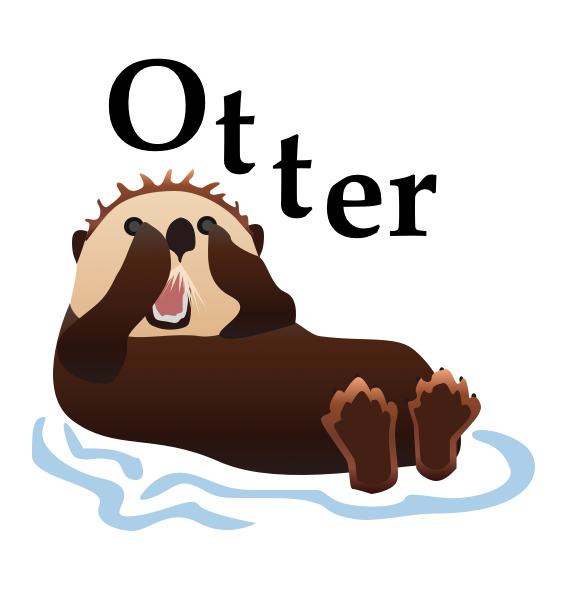
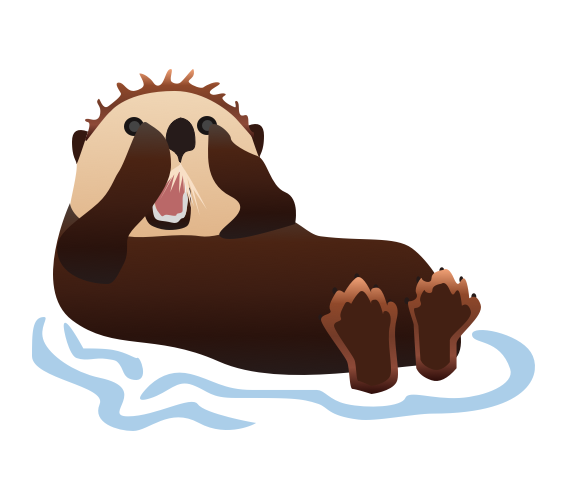
Initial cleanup of code: -added new otter asset -fixed state for response to include boolean -added more styling

Changed region(s): [[0.03, 0.0893, 0.9611, 0.8929]]

diff --git a/src/components/PopUp.js b/src/components/PopUp.js
@@ -4,14 +4,17 @@ import InviteForm from "./InviteForm";
 
 export default function PopUp({ toggle }) {
   const [showForm, setShowForm] = useState(true);
-  const [message, setMessage] = useState("");
+  const [formResponse, setFormResponse] = useState({
+    message: "",
+    success: false,
+  });
 
   const submitForm = () => {
     setShowForm(!showForm);
   };
 
-  const messageSetter = (message) => {
-    setMessage(message);
+  const messageSetter = (message, success) => {
+    setFormResponse({ message: message, success: success });
   };
 
   return (
@@ -24,14 +27,13 @@ export default function PopUp({ toggle }) {
         {showForm ? (
           <InviteForm
             toggle={toggle}
-            submitt={submitForm}
+            submit={submitForm}
             message={messageSetter}
           />
         ) : (
           <div>
-            <h4>All Done!</h4>
-            <p>{message}</p>
-
+            <h4>{formResponse.success ? "All Done!" : "Ooops..."}</h4>
+            <p>{formResponse.message}</p>
             <div onClick={toggle}>
               <button className="btn">Ok</button>
             </div>

diff --git a/src/App.js b/src/App.js
@@ -20,8 +20,8 @@ function App() {
       <div className="content">
         <h3>The new way to happiness is through Otter!</h3>
         <h5>Be the first to know when we launch</h5>
-        <div onClick={togglePop}>
-          <br />
+
+        <div style={{ paddingTop: "40px" }} onClick={togglePop}>
           <button className="btn ">Request an invite</button>
         </div>
         {popupVisible ? <PopUp toggle={togglePop} /> : null}
